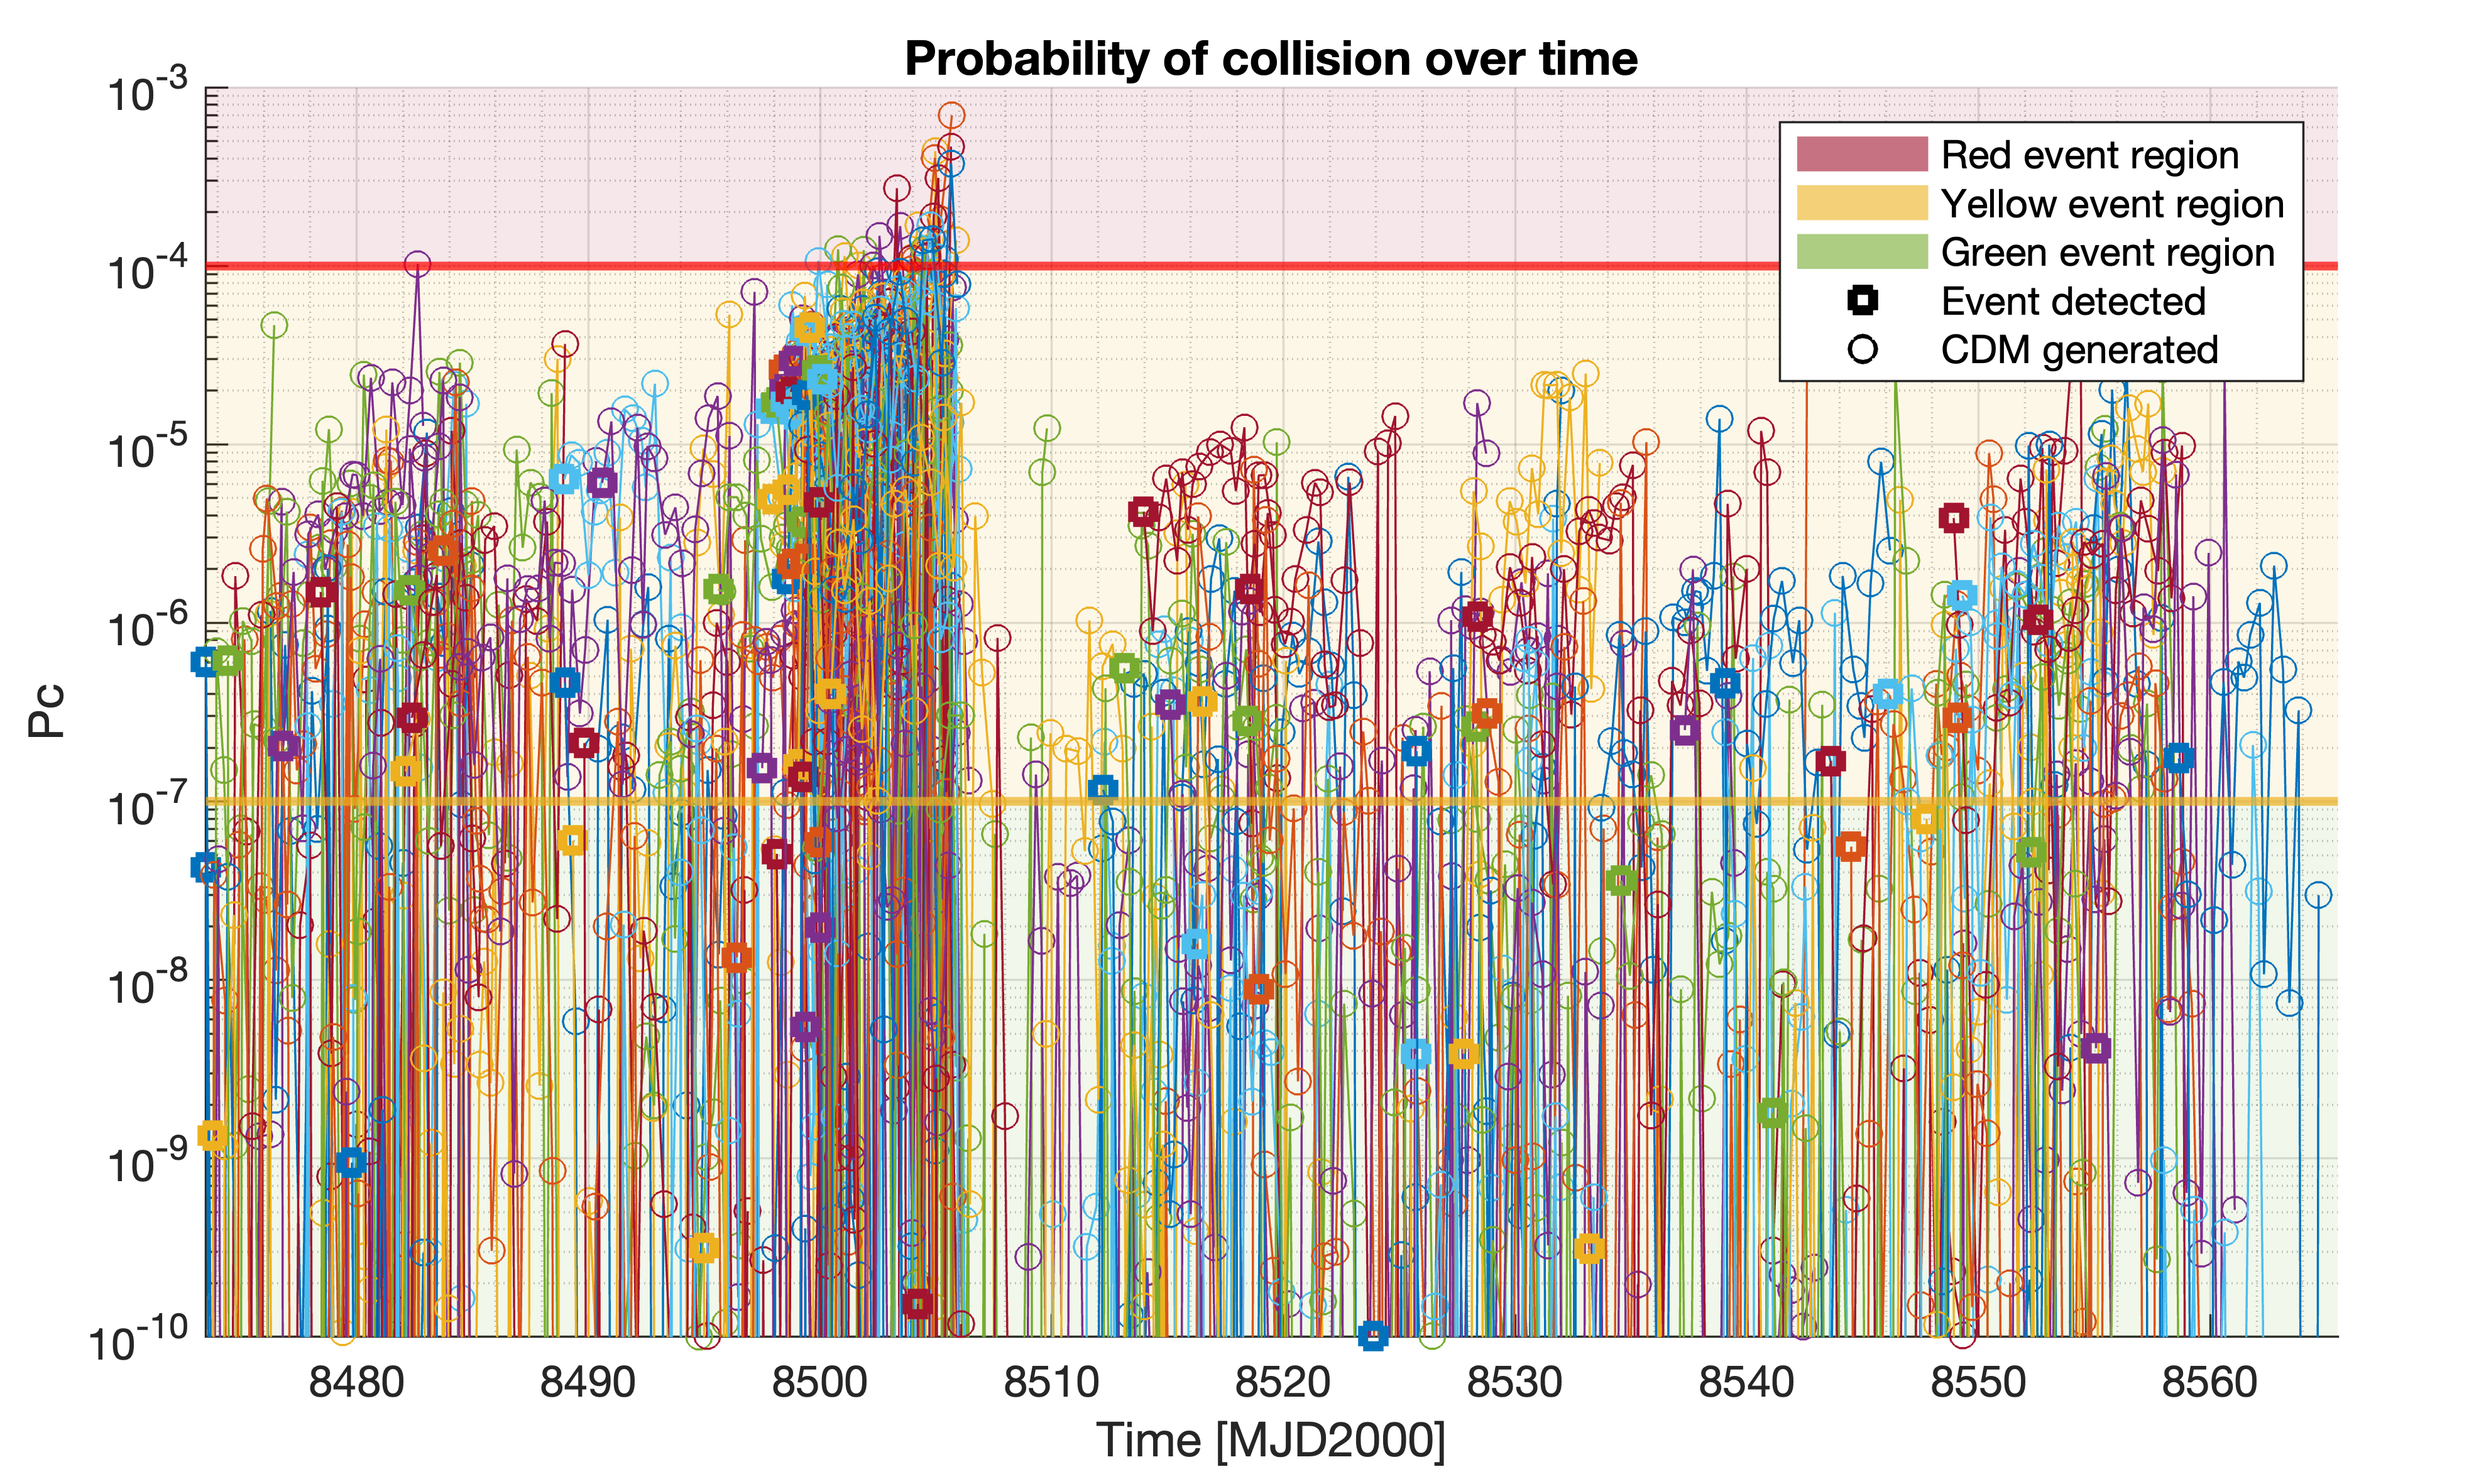
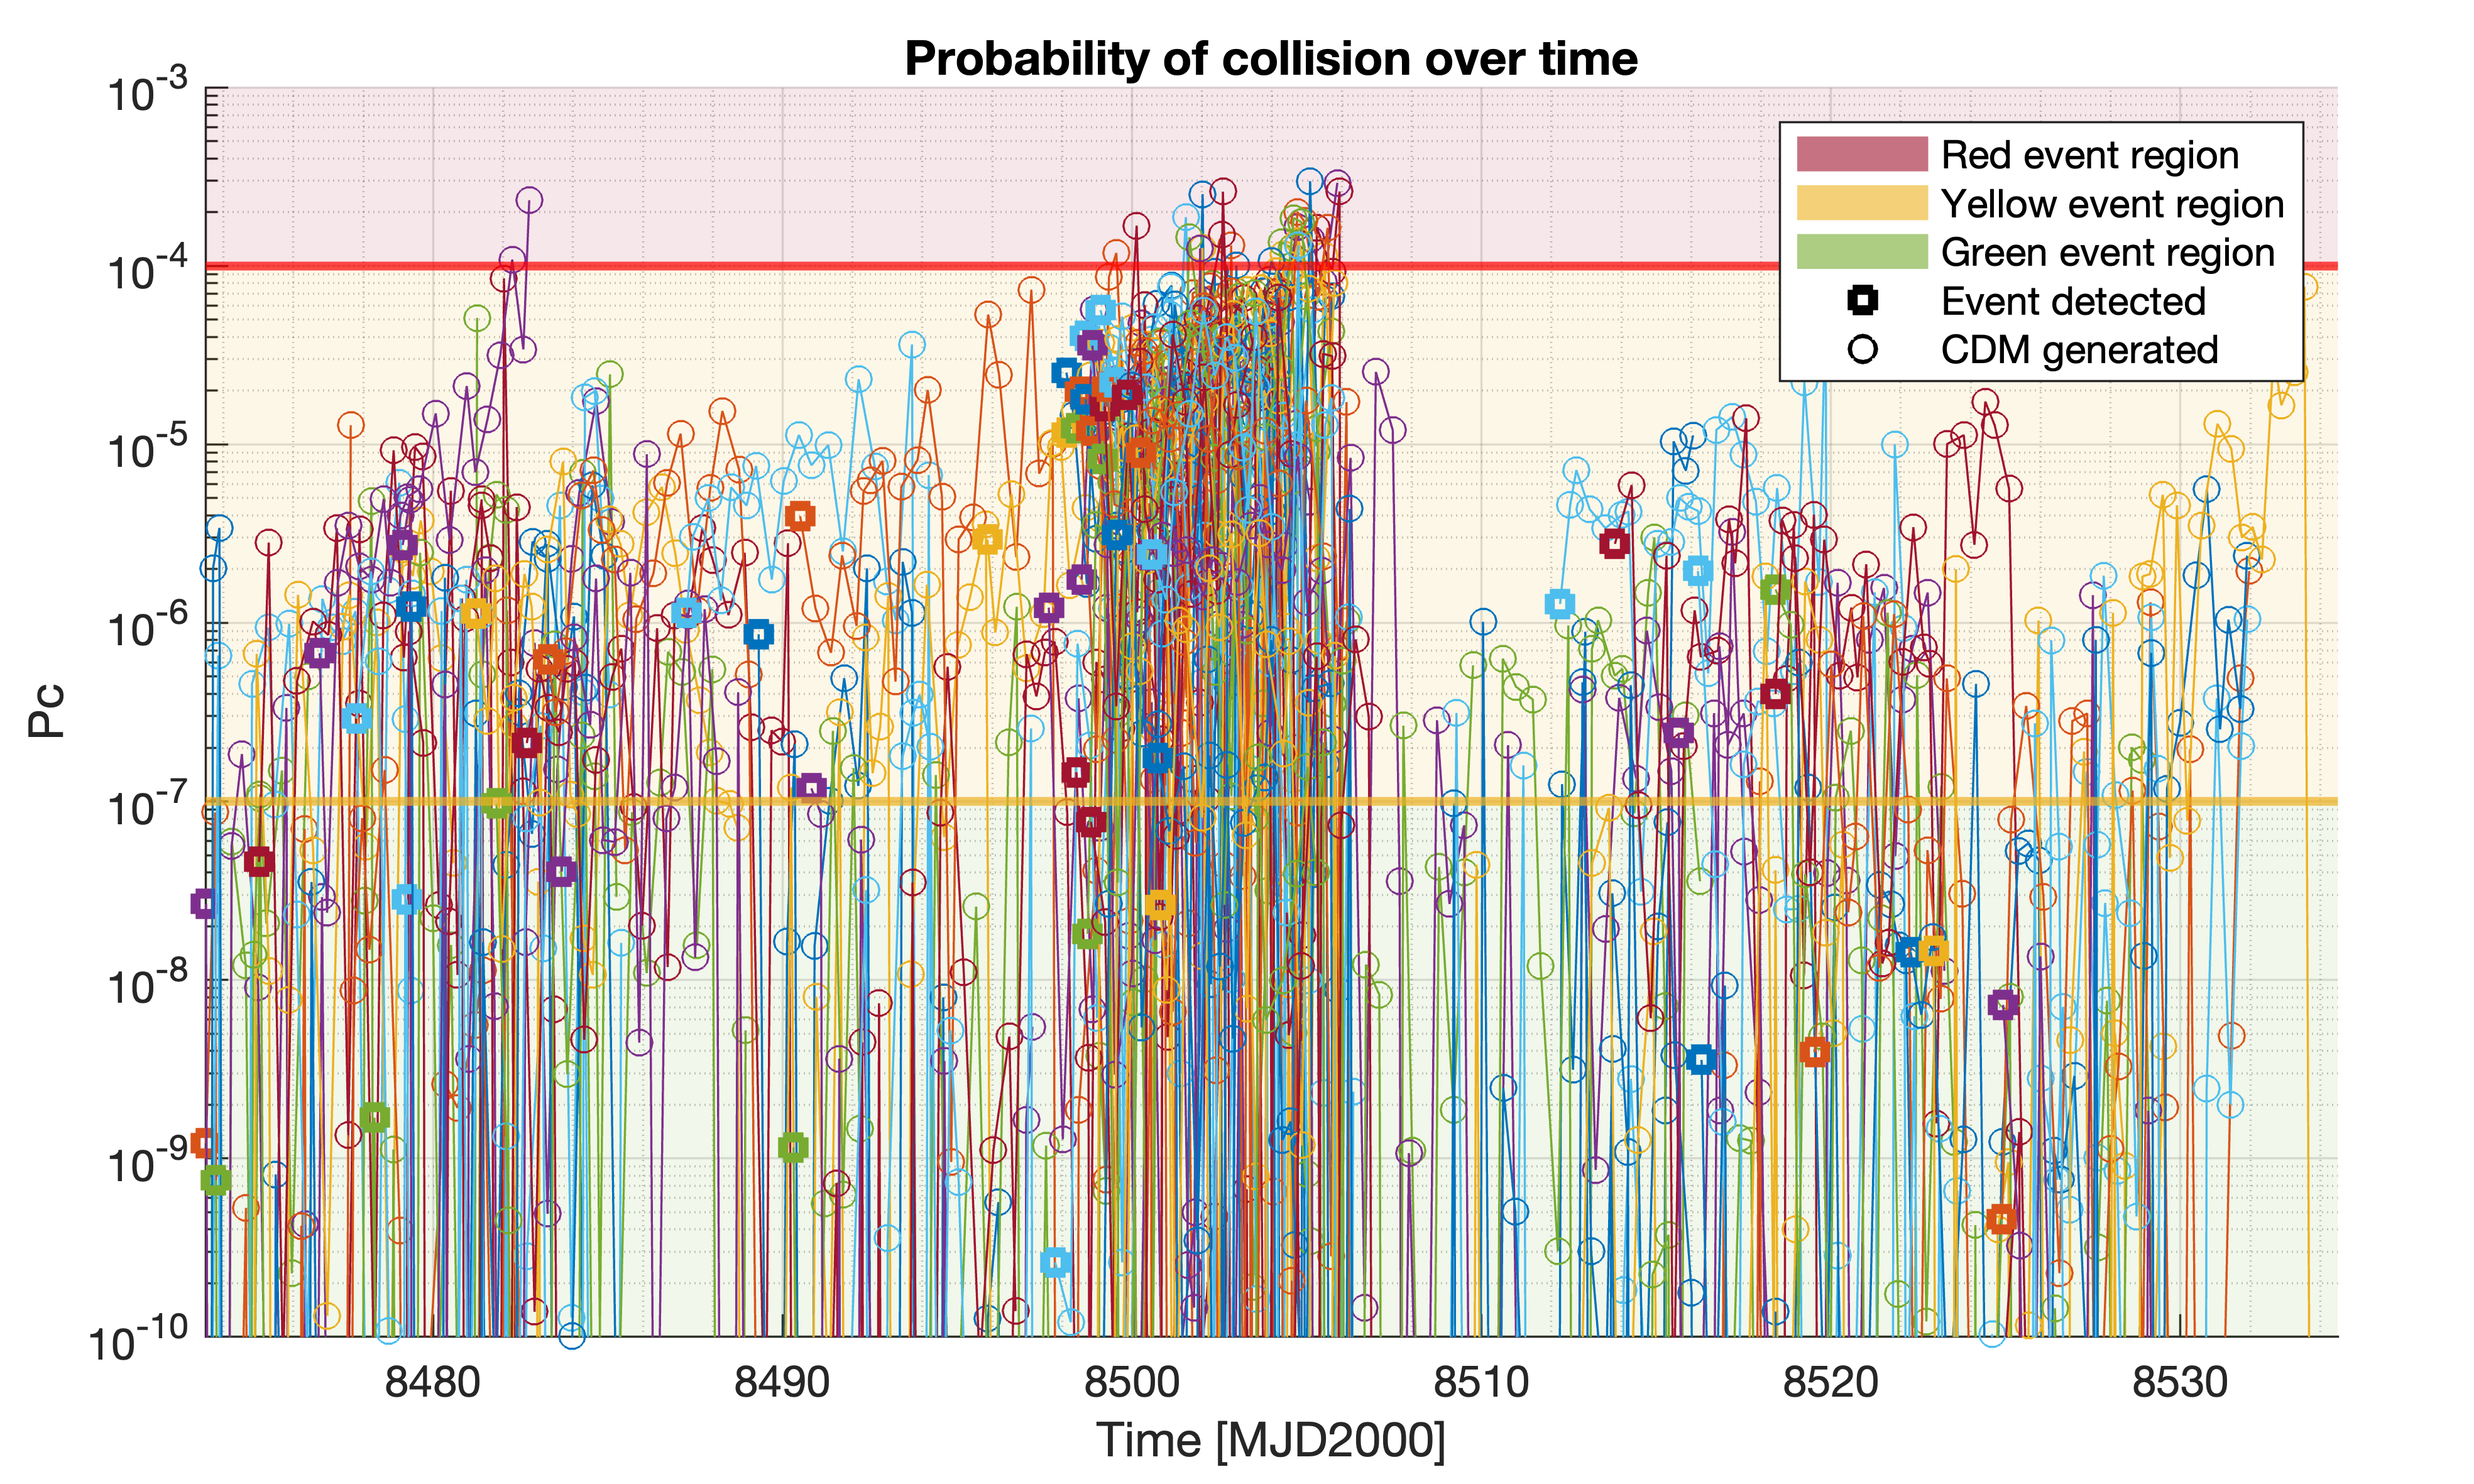
solved bugs
Final plot working, inconsistencies between sensitivity analysis and not mode bug solved

diff --git a/Code/Main.m b/Code/Main.m
@@ -22,8 +22,8 @@ if CDM_mode == 1
     list1 = read_real_CDM(data_2015.DB);
     list2 = read_real_CDM(data_2023.DB);
 
-    red_Pc_list = [1e-6,2.5e-6,5e-6,7.5e-6,1e-5,2.5e-5,5e-5,7.5e-5,1e-4,2.5e-4,4.4e-4,5e-4,7.5e-4,1e-3];
-    %red_Pc_list = [4.4e-4,1e-4,1e-5];
+    %red_Pc_list = [1e-6,2.5e-6,5e-6,7.5e-6,1e-5,2.5e-5,5e-5,7.5e-5,1e-4,2.5e-4,4.4e-4,5e-4,7.5e-4,1e-3];
+    red_Pc_list = [4.4e-4,1e-4,1e-5];
     tom_list = [12*3600,24*3600,36*3600,48*3600,60*3600]; %time of maneuver before TCA
     nb_of_maneuver_list = []; % list of nb of maneuvers for different time of maneuver
     nb_of_maneuver_list_total = {}; % list of lists of nb of maneuvers for different threshold Pc
@@ -34,7 +34,7 @@ if CDM_mode == 1
 if data_reading_mode == 1 % plotting nb of maneuvers vs time of maneuver for different Pc thresholds
     for red_Pc = red_Pc_list
         for time_of_maneuver = tom_list
-            [real_CDM_list, nb_of_maneuver,sat_maneuver_dict] = Decision_model_v2_CDM(list1,red_Pc,time_of_maneuver,sat_maneuver_dict);
+            [real_CDM_list, nb_of_maneuver,sat_maneuver_dict] = Decision_model_v2_CDM(list2,red_Pc,time_of_maneuver,sat_maneuver_dict);
             disp("for threshold Pc " + string(red_Pc) + " and t of maneuver (before TCA) of " + string(time_of_maneuver/3600) +" h, we have " + string(nb_of_maneuver) + " maneuvers");
             disp(sat_maneuver_dict);
             sat_maneuver_dict(sat_ids) = 0;
@@ -55,7 +55,7 @@ else
     %% User inputs
     tic
     epoch = [2023 3 15 0 0 0];
-    end_date= [2023 3 20 0 0 0];           % Simulation end date and time in gregorian calender
+    end_date= [2023 5 15 0 0 0];           % Simulation end date and time in gregorian calender
     %epoch = [2015 1 1 0 0 0]; end_date = [2015 7 1 0 0 0];
     %epoch = [2005 1 1 0 0 0]; end_date = [2005 7 1 0 0 0];
     accelerator=0;                          % details to be added
@@ -100,7 +100,7 @@ else
     end
     %% Main program run
     %[cdm_rep_list,event_list,cd am_list,event_detection,total_cost,decision_list,MOID_list] = SpaceEVDT (epoch, end_date , eos, space_cat,accelerator);
-    [cdm_rep_list,event_list,cdm_list,event_detection,total_cost,decision_list,MOID_list,operation_cost] = SpaceEVDT (epoch, end_date , eos, space_cat,accelerator,5);
+    [cdm_rep_list,event_list,cdm_list,event_detection,total_cost,decision_list,MOID_list,operation_cost] = SpaceEVDT (epoch, end_date , eos, space_cat,accelerator,10);
     
     [post_maneuver_list_v_based_MC,post_maneuver_list_id_based_MC] = Post_maneuver_decision(cdm_rep_list);
     if config.ordinal_mode == 1

diff --git a/Code/Functions/CDM_rep_list.m b/Code/Functions/CDM_rep_list.m
@@ -6,7 +6,7 @@
 %   to each specific conjunction event, along with some basic data
 %
 % INPUT:
-%   event_detection = [14xP] A matrix with each column corresponding to conjunctions detected, in the
+%   event_detection = [17xP] A matrix with each column corresponding to conjunctions detected, in the
 %                            chronological order. Containing important space object informations. 
 %                            [--,mjd2000,--,--,km,--,mjd2000,--,mjd2000,--,--,mjd2000,km,mjd2000]'
 %   cdm_list = (Q objects) List of all CDMs generated in the chronological order [CDM]
@@ -23,6 +23,8 @@
 %      row3: The index of the CDM with the maximum Pc within the list column
 %      row4: Total number of CDMs generated for that conjunction event
 %      row5: action det (Pc level)
+%      row6: is the secondary space active
+%      row7:
 %      row5-end: CDMs generated in the a chronological order
 %
 %
@@ -71,20 +73,27 @@ for i=1:size(event_detection,2)
             
             if cdm_list(j).isActive2 == 1 % one cdm is active means the s/c is active
                 isActive2 = 1;
+                %whoManeuvers_v = cdm_list(j).whoManeuvers_v;
             end
 
-            if ~isempty(cdm_list(j).whoManeuvers_v) | cdm_list(j).whoManeuvers_v ~= 0
-                whoManeuvers_v = cdm_list(j).whoManeuvers_v;
-            end
-
-            if ~isempty(cdm_list(j).whoManeuvers_id) | cdm_list(j).whoManeuvers_id ~= 0
-                whoManeuvers_id = cdm_list(j).whoManeuvers_id;
+            if config.ordinal_sensitivity_mode == 1
+                if ~isempty(cdm_list(j).whoManeuvers_v) & cdm_list(j).whoManeuvers_v ~= 0
+                    whoManeuvers_v = cdm_list(j).whoManeuvers_v;
+                end
+            elseif config.ordinal_sensitivity_mode == 0
+                if cdm_list(j).whoManeuvers_v ~= 0 & ~isempty(cdm_list(j).whoManeuvers_v)
+                    whoManeuvers_v = cdm_list(j).whoManeuvers_v;
+                end
+    
+                if cdm_list(j).whoManeuvers_id ~= 0 & ~isempty(cdm_list(j).whoManeuvers_v)
+                    whoManeuvers_id = cdm_list(j).whoManeuvers_id;
+                end
             end
         end
     end
     cdm_rep_list{2,i}=Pcmax;
     cdm_rep_list{3,i}=index_of_max;
-    cdm_rep_list{4,i}=index-8;
+    cdm_rep_list{4,i}=index-9;
     cdm_rep_list{5,i}=action_det;
     cdm_rep_list{6,i}=isActive2;
     cdm_rep_list{7,i}=whoManeuvers_v;

diff --git a/Code/Functions/Post_maneuver_decision.m b/Code/Functions/Post_maneuver_decision.m
@@ -36,16 +36,25 @@
 function [post_maneuver_list_v_based_MC,post_maneuver_list_id_based_MC] = Post_maneuver_decision(cdm_rep_list)
 
 config = GetConfig;
+%{
 if config.ordinal_sensitivity_mode == 0
     post_maneuver_list_v_based = zeros(1,size(cdm_rep_list{1},2));
     post_maneuver_list_id_based = zeros(1,size(cdm_rep_list{1},2));
 elseif config.ordinal_sensitivity_mode == 1
     post_maneuver_list_v_based = cell(1,size(cdm_rep_list{1},2));
 end
-
+%}
 post_maneuver_list_v_based_MC = cell(1,length(cdm_rep_list));
 post_maneuver_list_id_based_MC = cell(1,length(cdm_rep_list));
+
 for list = 1:length(cdm_rep_list) %loop through MC runs
+    if config.ordinal_sensitivity_mode == 0
+        post_maneuver_list_v_based = zeros(1,size(cdm_rep_list{1},2));
+        post_maneuver_list_id_based = zeros(1,size(cdm_rep_list{1},2));
+    elseif config.ordinal_sensitivity_mode == 1
+        post_maneuver_list_v_based = cell(1,size(cdm_rep_list{1},2));
+    end
+    
     current_cdm_rep_list = cdm_rep_list{list};
     for column = 1:size(current_cdm_rep_list,2) %loop through columns of list
         current_cdm = current_cdm_rep_list{10,column};

diff --git a/Code/Functions/MC_socioeco_sensi_display.m b/Code/Functions/MC_socioeco_sensi_display.m
@@ -66,11 +66,6 @@ for i = 1:length(post_maneuver_list_v_based_MC) % loop through all decision_list
     nonEmptyCells = cellfun(@(x) ~isempty(x),post_maneuver_list_v_based_MC{i});
     current_decision_list = post_maneuver_list_v_based_MC{i}(nonEmptyCells);
 
-    % Find the indices of cells that are not empty and do not contain 0
-    %nonEmptyNonZeroCells = cellfun(@(x) ~(isnumeric(x) && x == 0), current_decision_list);
-
-    % Create a new cell array with only the non-empty, non-zero cells
-    %current_decision_list = post_maneuver_list_v_based_MC{i}(nonEmptyNonZeroCells);
     new_list = {};
     for truc = 1:length(current_decision_list)
         if current_decision_list{truc} ~= 0

diff --git a/Code/Functions/real_CDM/plot_tom_Pc_tradespace.m b/Code/Functions/real_CDM/plot_tom_Pc_tradespace.m
@@ -2,10 +2,16 @@
 %   plot_tom_Pc_tradespace
 %
 % DESCRIPTION:
-% 
-% INPUT:
+%   Plots the time of maneuver and Pc tradespace. Time of maneuver is on the x
+%   axis and total number of maneuver is on the y axis.
 %
+% INPUT:
+%   nb_of_maneuver_list_total: list of lists of nb of maneuvers for different threshold Pc
+%   tom_list: list of considered time of maneuver
+%   red_Pc_list: list of considered threshold Pc
+%   
 % OUTPUT:
+%   plot
 %
 % ASSUMPTIONS AND LIMITATIONS:
 %

diff --git a/Code/Functions/real_CDM/Decision_model_v2_CDM.m b/Code/Functions/real_CDM/Decision_model_v2_CDM.m
@@ -40,7 +40,7 @@ for l=1:length(sorted_conj_list)
     current_conjunction = sorted_conj_list{l};
     chosen_cdm_index = choose_maneuver_cdm(current_conjunction,time_of_maneuver);
     current_ID=current_conjunction(chosen_cdm_index).Primary_ID;
-    if current_conjunction(chosen_cdm_index).Primary_ID == 27424
+    if current_conjunction(chosen_cdm_index).Primary_ID == 43613
    
     %% Decision tree
         %if value_of_collision > config.CC_threshold

diff --git a/Code/Functions/FinalPlot.m b/Code/Functions/FinalPlot.m
@@ -34,7 +34,7 @@ yy=yline(config.yellow_event_Pc,'Color',"#EDB120",'LineWidth',2);
 for k=1:1:size(cdm_rep_list,2)
     time_series=[];
     Pc_series=[];
-    for v=9:(cdm_rep_list{4,k}+8)
+    for v=10:(cdm_rep_list{4,k}+9)
         time_series(end+1)=date2mjd2000(cdm_rep_list{v,k}.creation_date);
         Pc_series(end+1)=cdm_rep_list{v,k}.Pc;
     end
